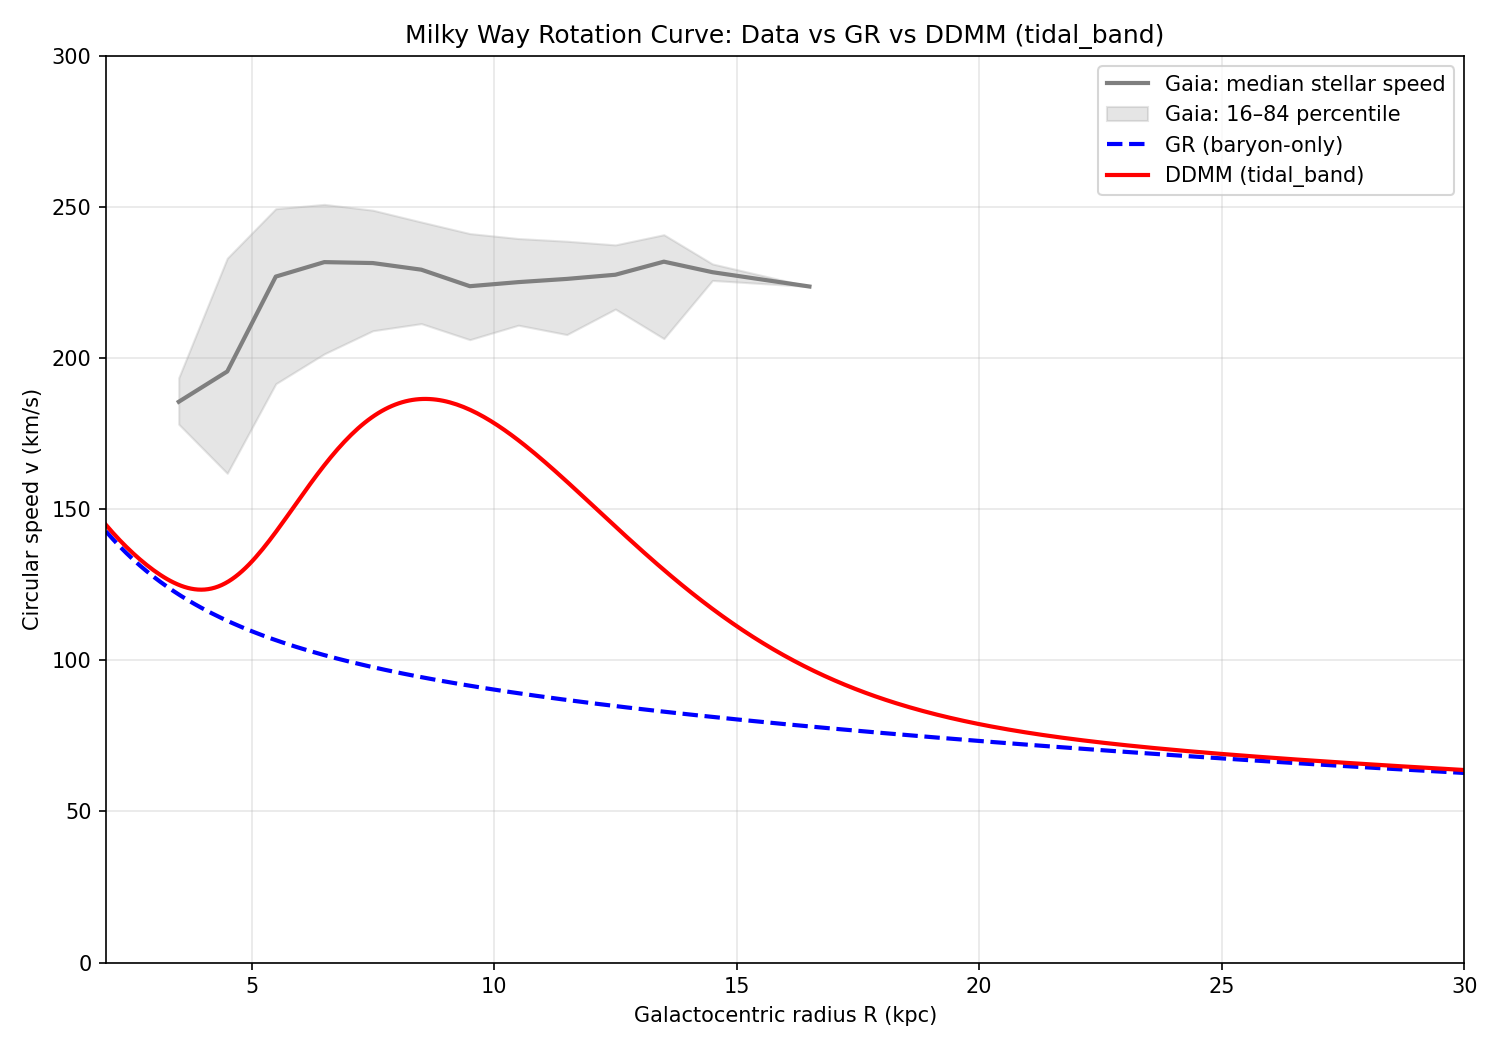
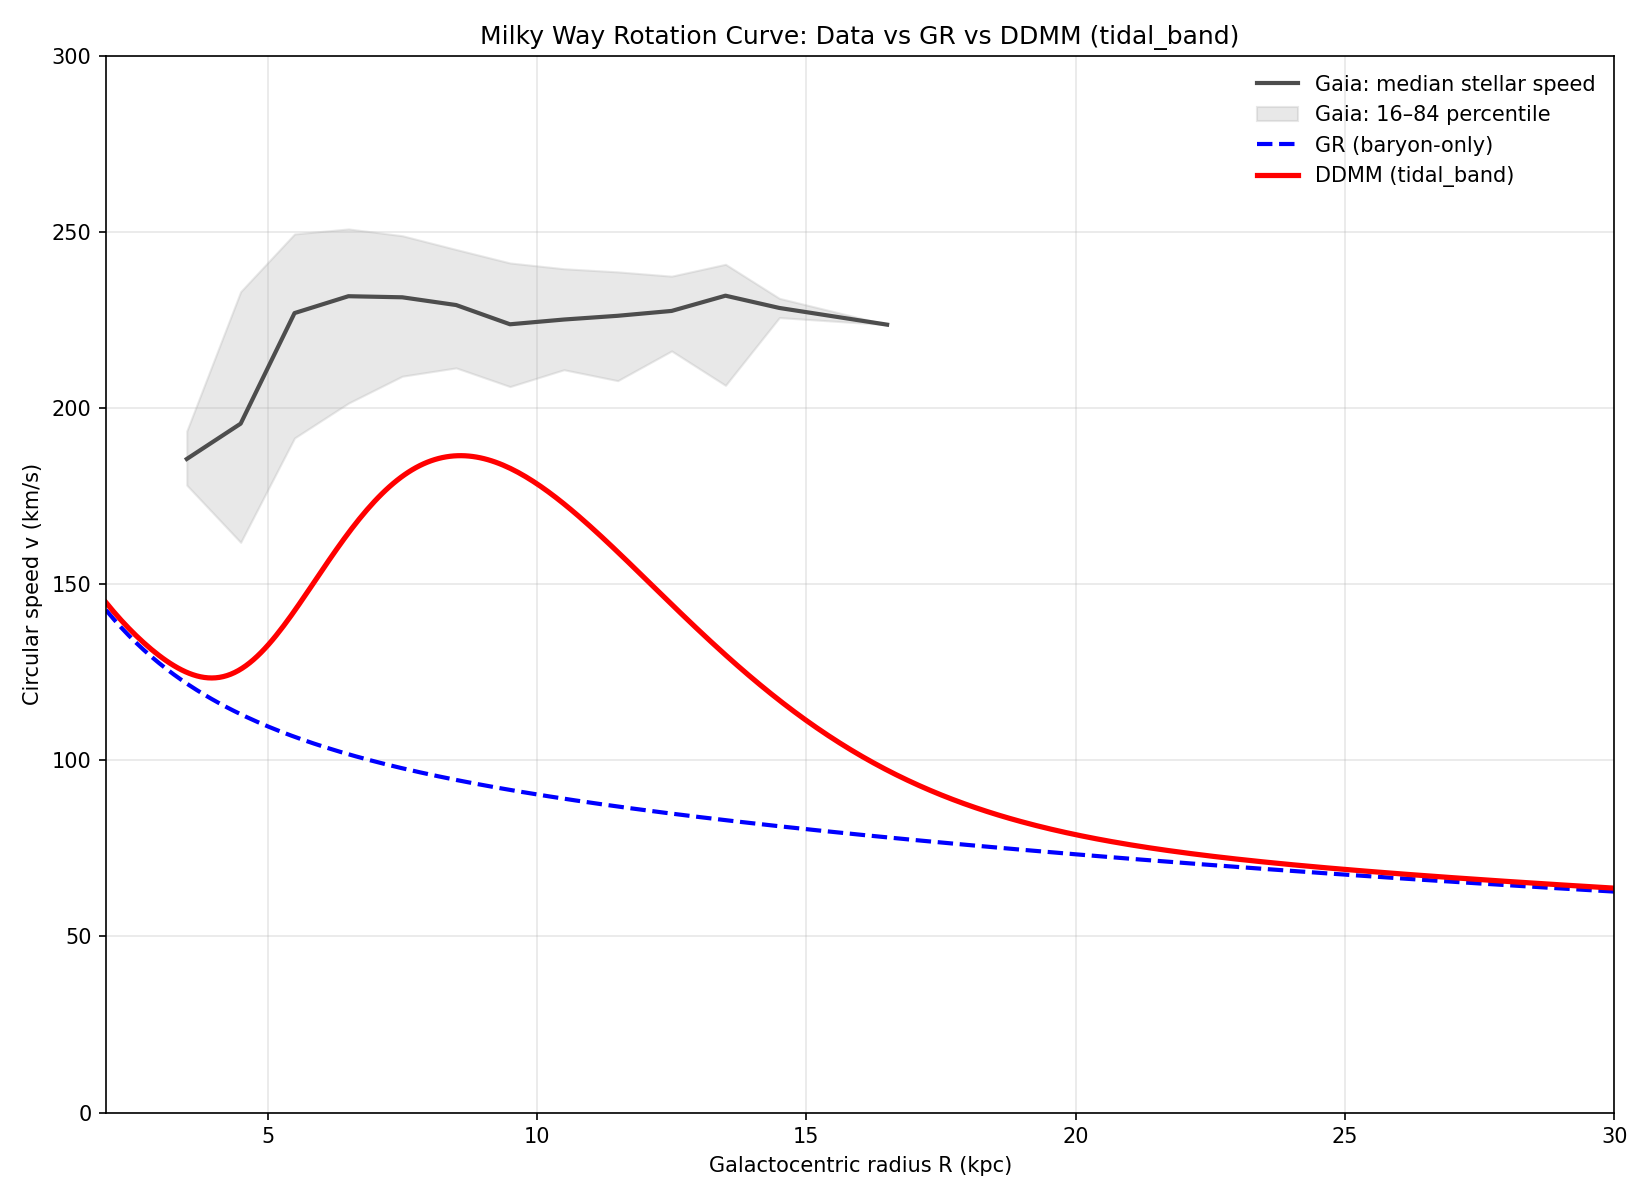
Plot: rotation comparison now loads fitted params from runs (GR/ER) and adds CLI; regenerate image using real data

diff --git a/tools/plot_rotation_comparison.py b/tools/plot_rotation_comparison.py
@@ -3,22 +3,32 @@
 Plot Milky Way rotation curve comparison:
 - Binned Gaia observed median speeds vs radius
 - GR (baryon-only) prediction
-- DDMM prediction using the 'tidal_band' xi model (with reasonable defaults)
+- DDMM prediction using the 'tidal_band' xi model
 
-Usage:
+Usage examples:
+  # Use default, reasonable parameters (no run dirs required)
   python tools/plot_rotation_comparison.py
+
+  # Use fitted parameters from your runs (recommended)
+  python tools/plot_rotation_comparison.py \
+    --gr_run runs/gr_matched \
+    --er_run runs/er_tidal_band
 
 Outputs:
   images/rotation_comparison_tidal_band.png
 
 Notes:
-- You do NOT need sampling results to generate this figure. We use sensible default
-  parameters for both the baryon model and the tidal_band xi(ρ) function. You can
-  later update the parameter guesses with best-fit values to refine the curve.
+- If --gr_run/--er_run are provided and contain posterior_samples.npz (or
+  post_analysis/params_summary.csv), the plotted curves will use the weighted
+  median (p50) of each parameter from those runs.
+- Otherwise, sensible defaults are used.
 """
 import os
 import sys
 from pathlib import Path
+import argparse
+import csv
+import json
 import numpy as np
 import matplotlib.pyplot as plt
 
@@ -30,7 +40,7 @@ for p in [REPO_ROOT, REPO_ROOT / "core", REPO_ROOT / "runners"]:
     if sp not in sys.path:
         sys.path.insert(0, sp)
 
-from typing import Tuple, Callable, Dict, Any
+from typing import Tuple, Callable, Dict, Any, Optional
 
 # Try to import CPU model (density_metric2) first; fallback to CuPy model (core.density_metric_cupy)
 # We will provide compatibility wrappers so the rest of the script uses v_total_kms and v_baryon_total_newtonian_kms
@@ -154,7 +164,6 @@ def bin_by_radius(R_kpc: np.ndarray, v_obs: np.ndarray, bins: np.ndarray) -> Tup
             v_hi[i-1] = np.percentile(vv, 84)
     return R_centers, v_med, v_lo, v_hi
 
-
 def default_baryon_params() -> dict:
     """Reasonable Milky Way-like defaults (adjust to your preferred baseline)."""
     return {
@@ -176,7 +185,6 @@ def default_baryon_params() -> dict:
         'include_gas': True,
     }
 
-
 def default_tidal_band_params() -> dict:
     """Starting guess for tidal_band xi(ρ) parameters. Tune as needed."""
     return {
@@ -188,14 +196,113 @@ def default_tidal_band_params() -> dict:
         'wmin': 0.01,              # minimum band weight
     }
 
-
 def build_param_dict(baryon_params: dict, xi_params: dict) -> dict:
     p = dict(baryon_params)
     p.update(xi_params)
     return p
 
 
+def _weighted_quantiles_from_npz(npz_path: Path) -> Optional[Dict[str, float]]:
+    try:
+        data = np.load(str(npz_path))
+        names = None
+        if "names" in data:
+            names = [str(n) for n in data["names"]]
+        samples = None
+        for key in ("samples", "posterior_samples", "xs"):
+            if key in data:
+                samples = np.asarray(data[key])
+                break
+        weights = None
+        for key in ("weights", "w"):
+            if key in data:
+                weights = np.asarray(data[key], dtype=float)
+                break
+        if samples is None:
+            return None
+        if samples.ndim == 1:
+            samples = samples.reshape(-1, 1)
+        N = samples.shape[0]
+        if weights is None or weights.size != N:
+            weights = np.ones(N, dtype=float) / float(N)
+        else:
+            s = float(np.sum(weights))
+            weights = weights / s if s > 0 else np.ones(N, dtype=float) / float(N)
+        if names is None or len(names) != samples.shape[1]:
+            names = [f"param_{i}" for i in range(samples.shape[1])]
+        # Compute weighted median (p50) for each parameter
+        order = np.argsort(samples, axis=0)
+        params_p50: Dict[str, float] = {}
+        for j, name in enumerate(names):
+            idx = order[:, j]
+            xs = samples[idx, j]
+            ws = weights[idx]
+            cdf = np.cumsum(ws)
+            cdf /= cdf[-1]
+            p50 = float(np.interp(0.5, cdf, xs))
+            params_p50[name] = p50
+        return params_p50
+    except Exception:
+        return None
+
+
+def _load_params_from_run(run_dir: Path) -> Optional[Dict[str, float]]:
+    # Prefer post_analysis/params_summary.csv (p50 column) if exists
+    csv_path = run_dir / "post_analysis" / "params_summary.csv"
+    if csv_path.exists():
+        try:
+            params: Dict[str, float] = {}
+            with open(csv_path, newline="", encoding="utf-8") as cf:
+                reader = csv.DictReader(cf)
+                for row in reader:
+                    name = row.get("parameter")
+                    p50 = row.get("p50")
+                    if name is None or p50 is None:
+                        continue
+                    try:
+                        params[name] = float(p50)
+                    except Exception:
+                        continue
+            if params:
+                return params
+        except Exception:
+            pass
+    # Fallback: posterior_samples.npz
+    npz_path = run_dir / "posterior_samples.npz"
+    if npz_path.exists():
+        return _weighted_quantiles_from_npz(npz_path)
+    return None
+
+
+def _maybe_update_params_from_runs(baryon: dict, xi_params: dict, gr_run: Optional[str], er_run: Optional[str]) -> tuple[dict, dict]:
+    b = dict(baryon)
+    x = dict(xi_params)
+    # Update baryon params from GR run if present
+    if gr_run:
+        gr_p = _load_params_from_run(Path(gr_run))
+        if gr_p:
+            b.update({k: v for k, v in gr_p.items() if k in b or k.startswith("M_") or k.endswith("_kpc")})
+    # Update xi + baryon params from ER run if present
+    if er_run:
+        er_p = _load_params_from_run(Path(er_run))
+        if er_p:
+            # First update baryon keys that match
+            for k in list(b.keys()):
+                if k in er_p:
+                    b[k] = er_p[k]
+            # Then update xi params for known keys
+            for key in ("rho_c_solar_kpc3", "gamma_exp", "lambda_max", "T0", "sigma_lnT", "wmin"):
+                if key in er_p:
+                    x[key] = er_p[key]
+    return b, x
+
+
 def main():
+    ap = argparse.ArgumentParser()
+    ap.add_argument("--gr_run", type=str, default=None, help="Path to GR run directory (to read fitted params)")
+    ap.add_argument("--er_run", type=str, default=None, help="Path to ER (tidal_band) run directory (to read fitted params)")
+    args = ap.parse_args()
+
     # Output directory
     out_dir = REPO_ROOT / "images"
     out_dir.mkdir(parents=True, exist_ok=True)
@@ -217,6 +324,10 @@ def main():
 
     baryon = default_baryon_params()
     tidal_band = default_tidal_band_params()
+
+    # Optionally override with fitted parameters from runs
+    baryon, tidal_band = _maybe_update_params_from_runs(baryon, tidal_band, args.gr_run, args.er_run)
+
     ddmm_params = build_param_dict(baryon, tidal_band)
 
     print("Computing GR (baryon-only) curve...")
@@ -231,15 +342,15 @@ def main():
 
     # 4) Plot
     print("Plotting...")
-    plt.figure(figsize=(10, 7))
+    plt.figure(figsize=(11, 8))
 
     valid = np.isfinite(v_med)
-    plt.plot(R_centers[valid], v_med[valid], color="tab:gray", lw=2, label="Gaia: median stellar speed")
+    plt.plot(R_centers[valid], v_med[valid], color="#4D4D4D", lw=2, label="Gaia: median stellar speed")
     band_valid = np.isfinite(v_lo) & np.isfinite(v_hi)
-    plt.fill_between(R_centers[band_valid], v_lo[band_valid], v_hi[band_valid], color="tab:gray", alpha=0.2, label="Gaia: 16–84 percentile")
+    plt.fill_between(R_centers[band_valid], v_lo[band_valid], v_hi[band_valid], color="#A6A6A6", alpha=0.25, label="Gaia: 16–84 percentile")
 
     plt.plot(R_grid, v_gr, "b--", lw=2, label="GR (baryon-only)")
-    plt.plot(R_grid, v_ddmm, "r-", lw=2, label=f"DDMM ({xi_type})")
+    plt.plot(R_grid, v_ddmm, "r-", lw=2.5, label=f"DDMM ({xi_type})")
 
     plt.xlabel("Galactocentric radius R (kpc)")
     plt.ylabel("Circular speed v (km/s)")
@@ -248,11 +359,12 @@ def main():
     plt.xlim(2, 30)
     ymax = np.nanmax([np.nanmax(v_med), np.nanmax(v_gr), np.nanmax(v_ddmm)])
     plt.ylim(0, max(300, float(ymax) + 40))
-    plt.legend()
+    plt.legend(frameon=False)
 
     out_file = out_dir / "rotation_comparison_tidal_band.png"
     plt.tight_layout()
     plt.savefig(out_file, dpi=150)
+    print(f"Saved: {out_file}")
     print(f"Saved: {out_file}")
 
 
